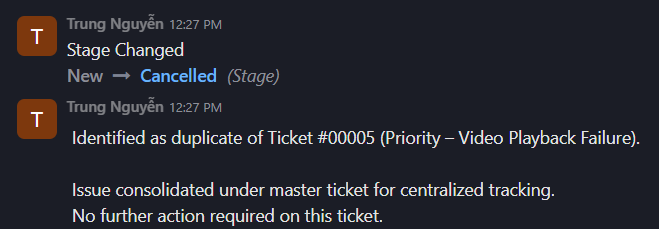
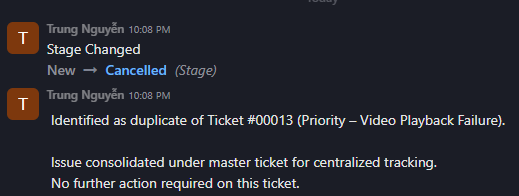
feature: review and redo week 3 scenario05 - multi-user video playback issue

diff --git a/week3/scenario-05-multi-user/scenario-05-doc.md b/week3/scenario-05-multi-user/scenario-05-doc.md
@@ -2,8 +2,8 @@
 
 ## 1. Ticket Information
 
-- Ticket ID: #00005 (Master Ticket)
-- Related Tickets: #00006, #00007 (Marked as Duplicate)
+- Ticket ID: #00013 (Master Ticket)
+- Related Tickets: #00014, #00015 (Marked as Duplicate)
 - Customer: CXO – Advanced JavaScript (JS-ADV-HN-2412)
 - Helpdesk Team: Technical Support
 - Assigned To: Trung Nguyễn
@@ -177,5 +177,5 @@ Recommendation:
 
 ## Odoo Ticket Link
 
-[View Master Ticket #00005 on Odoo](https://mindx4.odoo.com/mail/view?model=helpdesk.ticket&res_id=5&access_token=7a7ab35c-bd5b-40a8-a78d-945292b1f815)
+[View Master Ticket #00013 on Odoo](https://mindx4.odoo.com/mail/view?model=helpdesk.ticket&res_id=13&access_token=c1702633-b7d6-4e3a-84c9-99975da463a6)
 
